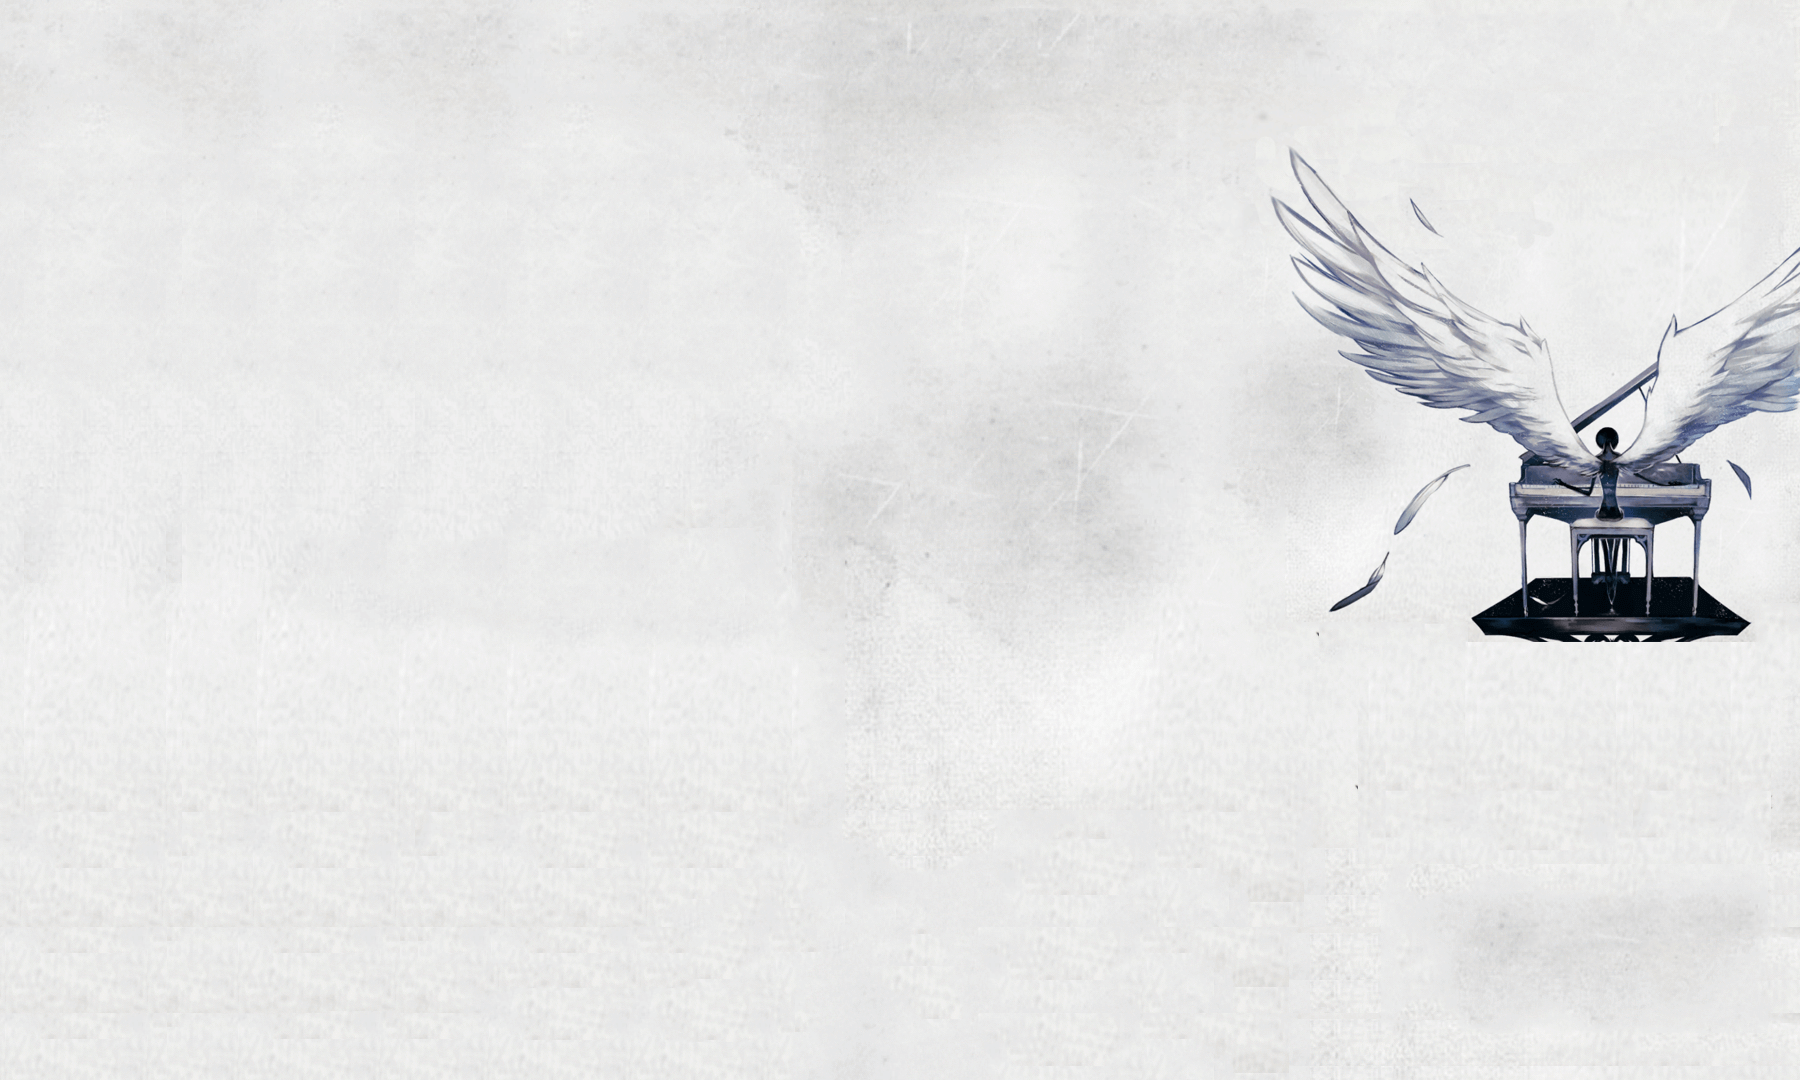
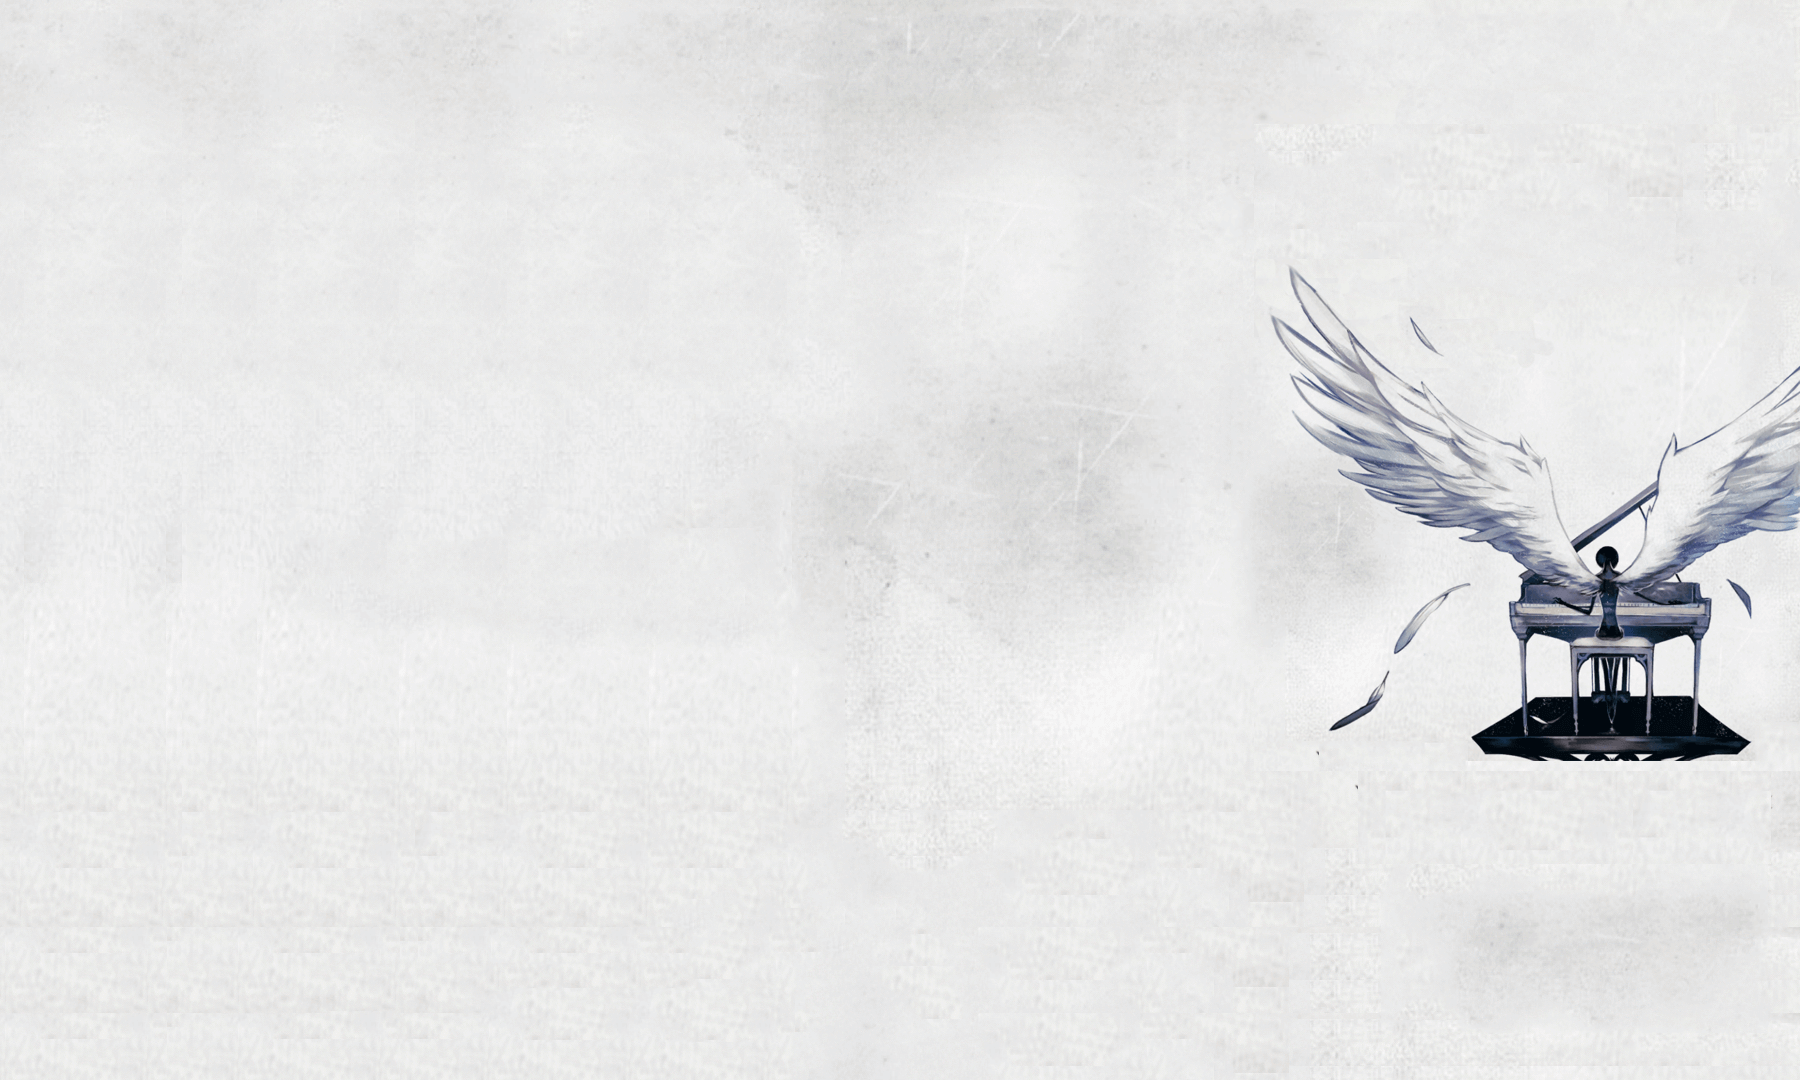
add bgImgs

Changed region(s): [[0.6844, 0.1528, 1.0, 0.7028], [0.7778, 0.1833, 0.8089, 0.2139], [0.7467, 0.6417, 0.7778, 0.6722]]

diff --git a/css/index.css b/css/index.css
@@ -7,10 +7,12 @@ html,
 body {
     /*background: rgba(0, 0, 12, 0.15);*/
     overflow: hidden;
-    background-image: url(../img/bg-1.png);
+    height: 100%;
+    background-image: url(../img/bg-4.png);
     background-repeat: no-repeat;
     background-attachment: fixed;
     background-size: cover;
+    transition: background 0.6s;
 }
 
 .left-list {
@@ -51,6 +53,7 @@ body {
     background: #000;
     opacity: 0.2;
     transition: transform 0.3s;
+    z-index: 99;
 }
 
 .rotate-zero {
@@ -66,6 +69,7 @@ body {
     height: 700px;
     background: #2B2B2B;
     color: #FFF;
+    z-index: 999;
 }
 
 .close {
@@ -141,4 +145,44 @@ body {
 .container .blog .blog-home ul li a:hover {
     opacity: 1;
     font-size: 1.2em;
+}
+
+.bg-img-group {
+    display: flex;
+    flex-flow: column wrap;
+    width: 500px;
+    height: 600px;
+    margin: 300px auto 0;
+    margin-top: 160px;
+}
+
+.bg-img-group img {
+    width: 100px;
+    margin-bottom: 8px;
+    opacity: 0.4;
+    border: 8px solid #666666;
+    border-radius: 5px;
+    background: #fff;
+    transition: all 0.5s;
+}
+
+.bg-img-group img:hover {
+    opacity: 1;
+    transform: scale(1.1);
+}
+
+.bg-img-group img:nth-child(1) {
+    margin-top: 240px;
+}
+
+.bg-img-group img:nth-child(3) {
+    margin-top: 240px;
+}
+
+.bg-img-group img:nth-child(6) {
+    margin-bottom: 245px;
+}
+
+.bg-img-group img:nth-child(8) {
+    margin-bottom: 245px;
 }

diff --git a/js/index.js b/js/index.js
@@ -46,7 +46,7 @@ $(function() {
                     if (count > 24) {
                         setTimeout(function () {
                             $('.container').show();
-
+                            $('.bg-img-group').hide(200);
                         }, 300);
 
                     }
@@ -62,6 +62,7 @@ $(function() {
     //关闭动画
     $('.container .close').click(function () {
         $('.container').hide();
+        $('.bg-img-group').show();
         $('.boxes div').removeClass('rotate-zero');
 
         $('.boxes div').each(function (i, e) {
@@ -102,3 +103,13 @@ $(function() {
     });
 
 });
+
+
+// 背景图片
+$('.bg-img').click(function () {
+        var $index = $(this).index();
+
+        var bgImg = ['bg-1.png','bg-2.png','bg-3.png','bg-4.png','bg-5.png','bg-6.png','bg-7.png','bg-8.png'];
+
+        $('body').css('background-image', 'url(img/' + bgImg[$index] + ')');
+    });

diff --git a/index.html b/index.html
@@ -42,6 +42,17 @@
         <div class="about_me">building...</div>
     </div>
 
+    <!-- 背景图片 -->
+    <div class="bg-img-group">
+        <img class="bg-img" src="img/sm-bg-1.jpg" alt="">
+        <img class="bg-img" src="img/sm-bg-2.jpg" alt="">
+        <img class="bg-img" src="img/sm-bg-3.jpg" alt="">
+        <img class="bg-img" src="img/sm-bg-4.jpg" alt="">
+        <img class="bg-img" src="img/sm-bg-5.jpg" alt="">
+        <img class="bg-img" src="img/sm-bg-6.jpg" alt="">
+        <img class="bg-img" src="img/sm-bg-7.jpg" alt="">
+        <img class="bg-img" src="img/sm-bg-8.jpg" alt="">
+    </div>
 
     <script src="js/jquery-3.2.1.min.js"></script>
     <script src="js/index.js"></script>
